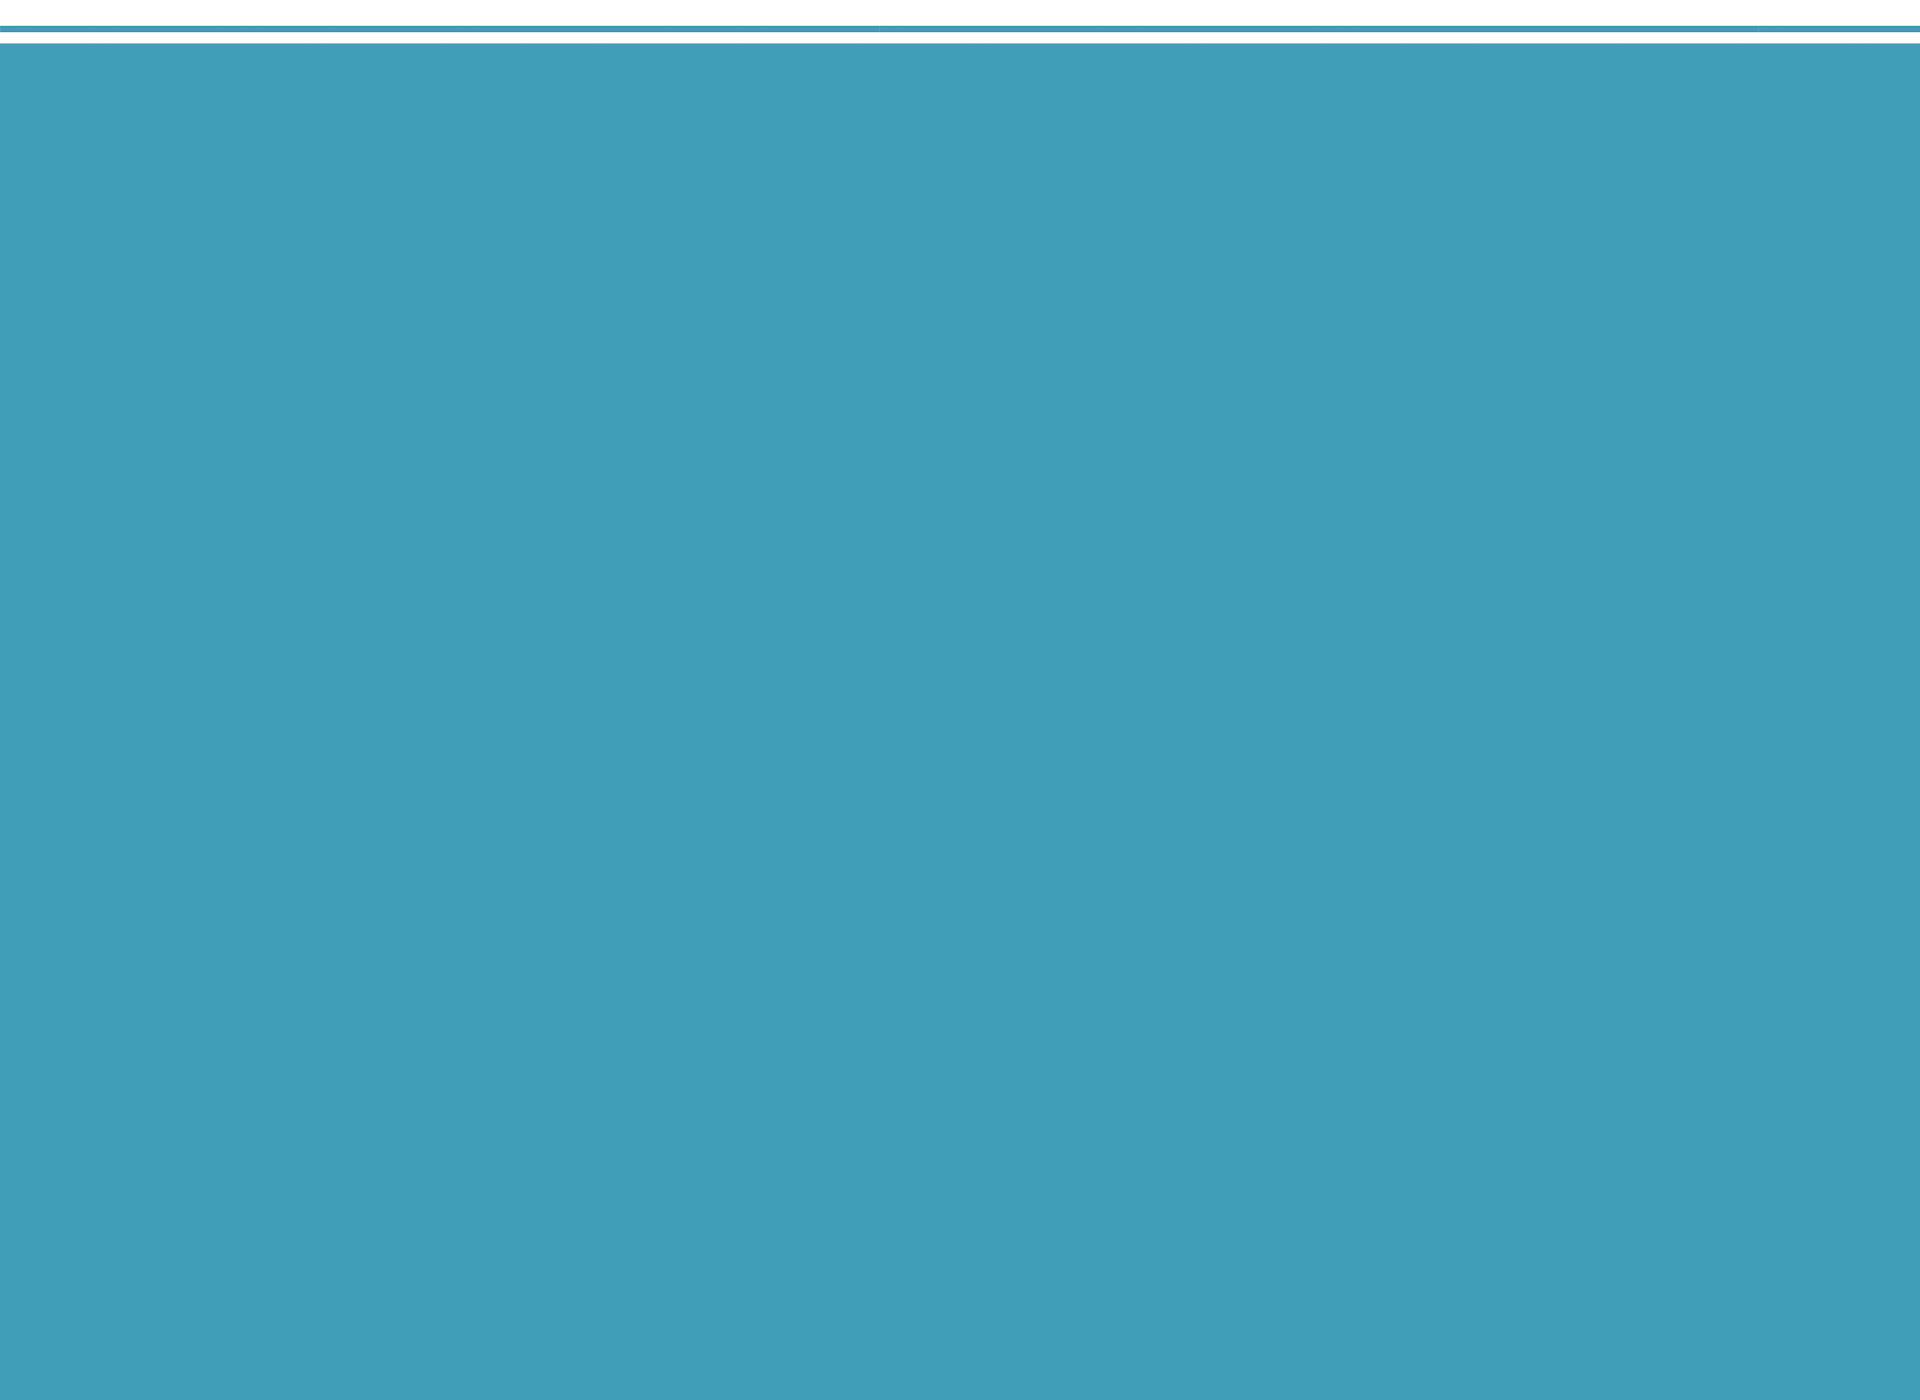
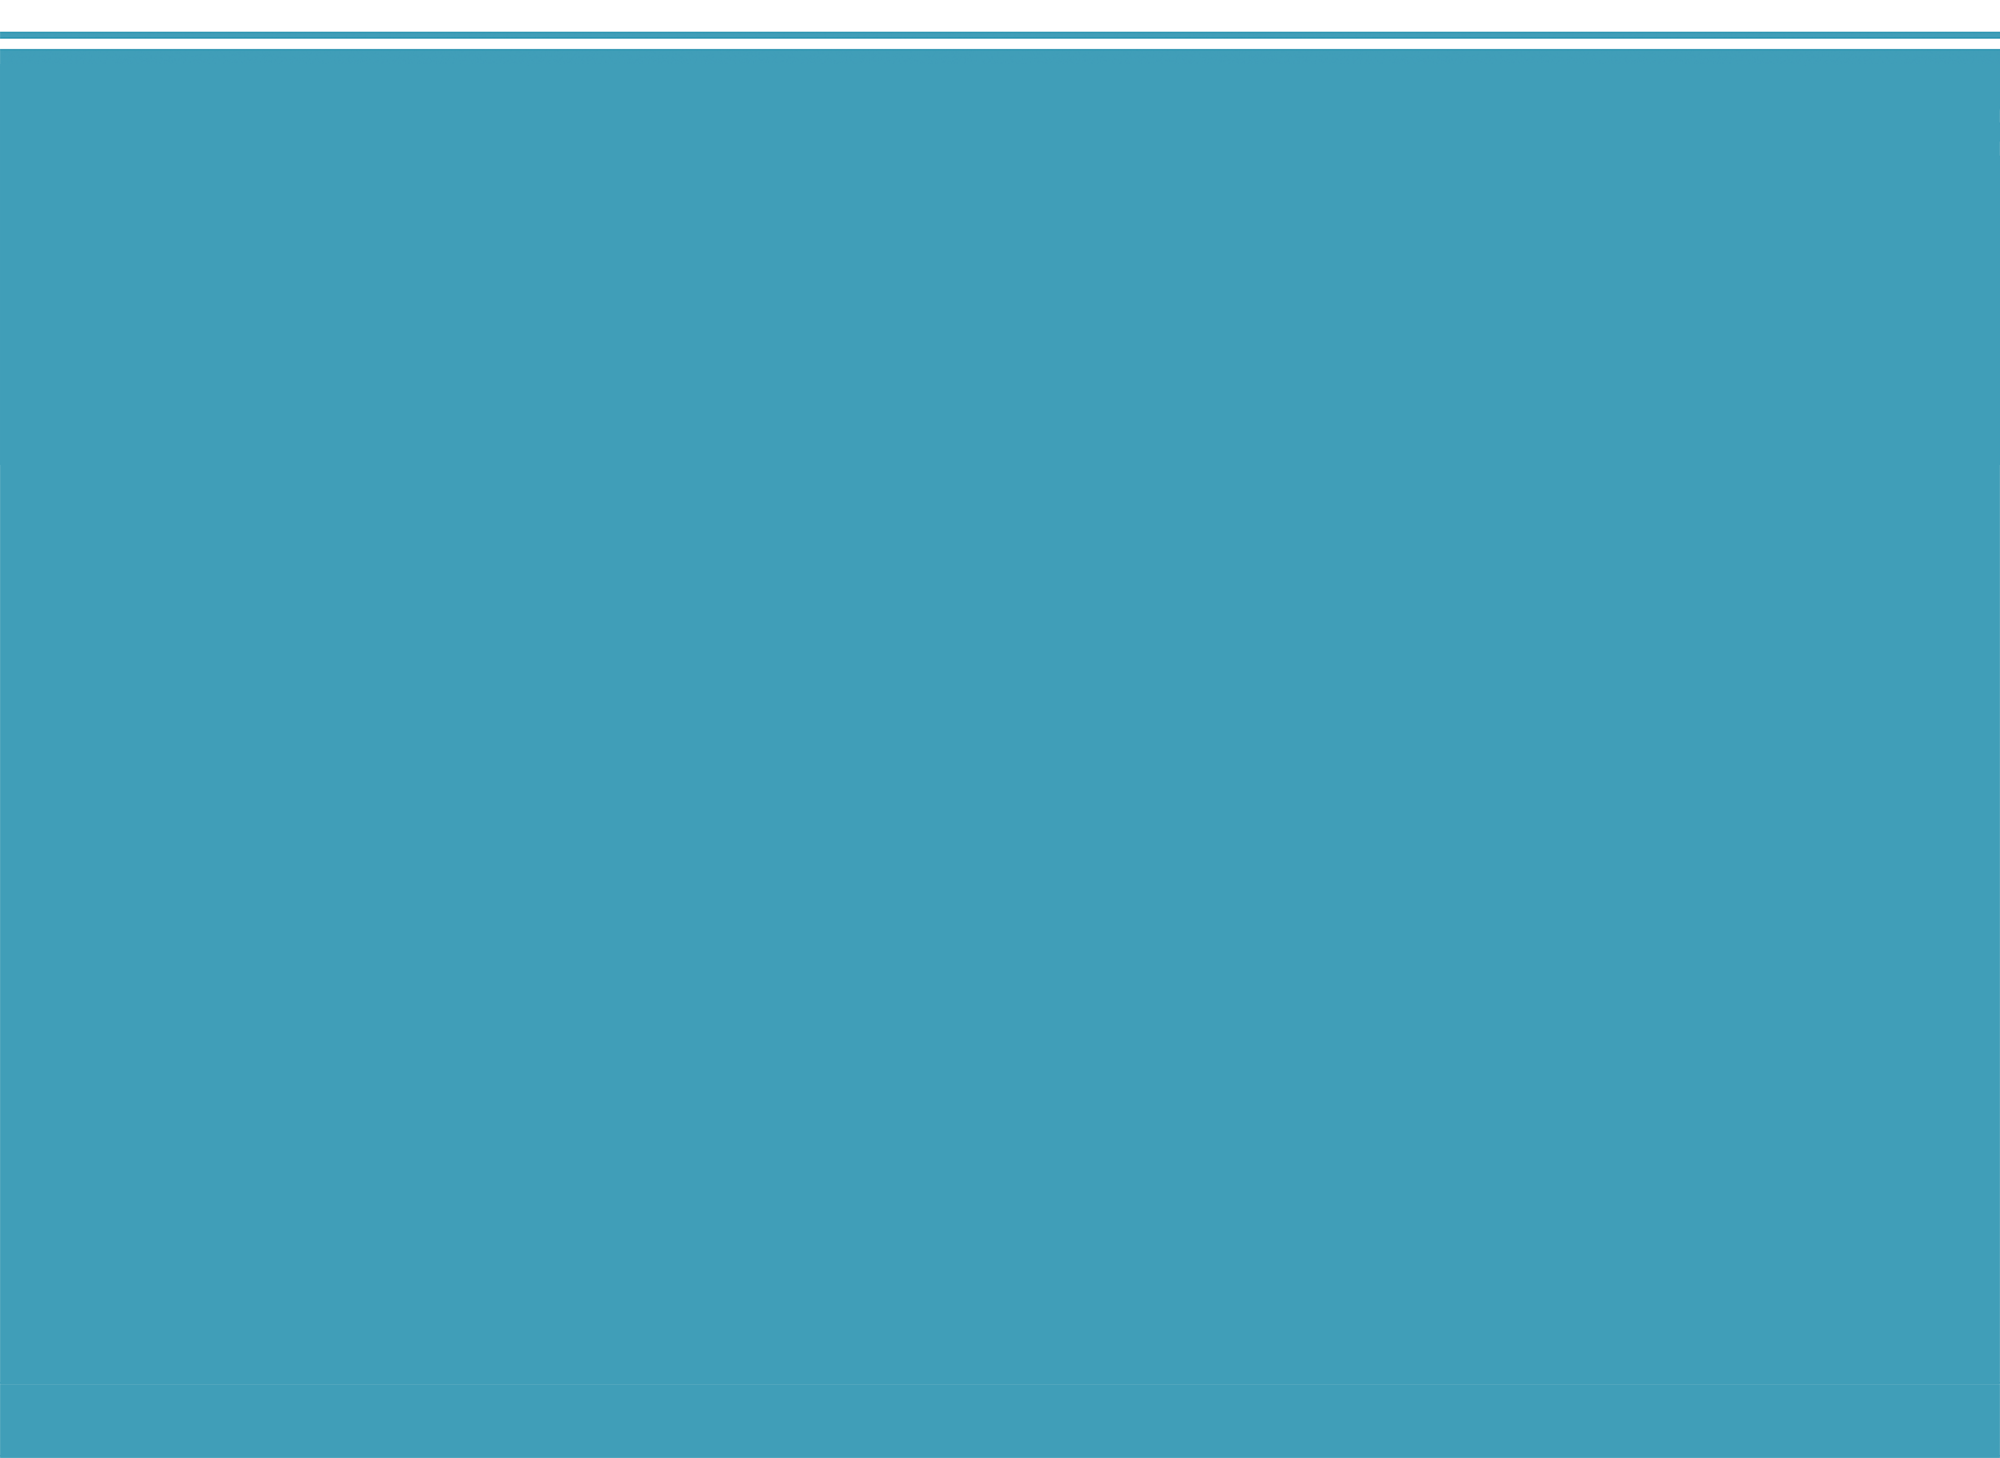
Update images & meta info

Changed region(s): [[0.0, 0.0, 1.0, 0.0307]]

diff --git a/index.html b/index.html
@@ -16,15 +16,15 @@
     <meta name="viewport" content="width=device-width, initial-scale=1.0, maximum-scale=1.0, user-scalable=no">
 
     <!-- Primary Meta Tags -->
-    <title>Journalism Growth Lab | Bespoke growth support for forward-thinking publishers</title>
-    <meta name="title" content="Journalism Growth Lab | Bespoke growth support for forward-thinking publishers">
+    <title>Journalism Growth Lab | Reach your potential 🚀</title>
+    <meta name="title" content="Journalism Growth Lab | Reach your potential 🚀">
     <meta name="description"
         content="A boutique customer acquisition agency for publishers who want to grow their audience or revenue online">
 
     <!-- Open Graph / Facebook -->
     <meta property="og:type" content="website">
     <meta property="og:url" content="https://journalismgrowthlab.com">
-    <meta property="og:title" content="Journalism Growth Lab | Bespoke growth support for forward-thinking publishers">
+    <meta property="og:title" content="Journalism Growth Lab | Reach your potential 🚀">
     <meta property="og:description"
         content="A boutique customer acquisition agency for publishers who want to grow their audience or revenue online">
     <meta property="og:image" content="https://journalismgrowthlab.com/static/jgl-social-share.png">
@@ -33,7 +33,7 @@
     <meta property="twitter:card" content="summary_large_image">
     <meta property="twitter:url" content="https://journalismgrowthlab.com/">
     <meta property="twitter:title"
-        content="Journalism Growth Lab | Bespoke growth support for forward-thinking publishers">
+        content="Journalism Growth Lab | Reach your potential 🚀">
     <meta property="twitter:description"
         content="A boutique customer acquisition agency for publishers who want to grow their audience or revenue online.">
     <meta property="twitter:image" content="https://journalismgrowthlab.com/static/jgl-social-share.png">
@@ -57,7 +57,7 @@
         <div class="slides">
             <section id="boutique-agency" data-background-image="/static/JGL-slide-bg.png"
                 data-background-position="top right" data-background-repeat="no-repeat">
-                <img alt="Journalism Growth Lab" src="/static/JGL-logo-small.png" />
+                <img alt="Journalism Growth Lab" width="400" src="/static/JGL-logo-small.png" />
                 <h1 style="display:none;">Journalism Growth Lab</h1>
                 <h5>A boutique customer acquisition agency for publishers who want to grow their audience or revenue
                     online
